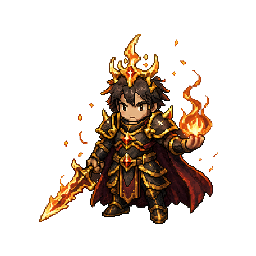
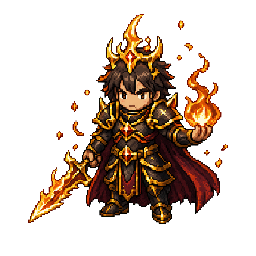
Integrate approved Dragon Arcade action frames

diff --git a/src/game/systems/AnimationSystem.ts b/src/game/systems/AnimationSystem.ts
@@ -12,6 +12,7 @@ import {
   type AuthoredFacing,
   type ChampionAnimationState
 } from '../config/ChampionAnimations';
+import { getDragonArcadeFrames, type DragonArcadeFrame } from '../config/DragonArcadeAnimations';
 
 interface MotionProfile {
   idleBob: number;
@@ -57,6 +58,8 @@ export interface ActorVisual {
   actionWasActive: boolean;
   settleUntil: number;
   actionFacing: Exclude<Direction, 'none'>;
+  arcadeFrames?: readonly DragonArcadeFrame[];
+  arcadeAnimationStartedAt: number;
 }
 
 export class AnimationSystem {
@@ -119,7 +122,8 @@ export class AnimationSystem {
       actionUntil: 0,
       actionWasActive: false,
       settleUntil: 0,
-      actionFacing: 'down'
+      actionFacing: 'down',
+      arcadeAnimationStartedAt: 0
     };
   }
 
@@ -205,6 +209,7 @@ export class AnimationSystem {
   playArcadeAction(
     actor: Player,
     visual: ActorVisual,
+    kind: 'primary' | 'secondary' | 'signature',
     facing: Exclude<Direction, 'none'>,
     color: number,
     windupMs: number,
@@ -218,6 +223,10 @@ export class AnimationSystem {
           ? { x: -1, y: 0 }
           : { x: 1, y: 0 };
     visual.actionFacing = facing;
+    visual.arcadeFrames = actor.character === 'dragon' && kind !== 'secondary'
+      ? getDragonArcadeFrames(kind, facing)
+      : undefined;
+    visual.arcadeAnimationStartedAt = this.scene.time.now;
     visual.state = 'special';
     visual.animationStartedAt = this.scene.time.now;
     visual.actionUntil = this.scene.time.now + windupMs + recoveryMs;
@@ -331,13 +340,18 @@ export class AnimationSystem {
     return `walk_${suffix}` as AnimationState;
   }
 
-  private enterState(_actor: Player, visual: ActorVisual, _state: AnimationState): void {
+  private enterState(_actor: Player, visual: ActorVisual, state: AnimationState): void {
     this.scene.tweens.killTweensOf(visual.motion);
     visual.motion.setScale(1).setAngle(0).setPosition(0, -13);
     visual.animationStartedAt = this.scene.time.now;
+    if (state !== 'special') visual.arcadeFrames = undefined;
   }
 
   private updateAnimationPose(actor: Player, visual: ActorVisual): void {
+    if (visual.arcadeFrames && this.scene.time.now < visual.actionUntil) {
+      this.updateDragonArcadePose(visual);
+      return;
+    }
     const animation = getChampionAnimation(actor.character);
     const state = this.frameState(visual.state);
     const range = animation.states[state];
@@ -362,6 +376,31 @@ export class AnimationSystem {
       .setAngle(pose.angle * mirror)
       .setScale(visual.spriteBaseScaleX, visual.spriteBaseScaleY * pose.scaleY)
       .setFlipX(facing === 'left')
+      .setAlpha(1);
+  }
+
+  private updateDragonArcadePose(visual: ActorVisual): void {
+    const frames = visual.arcadeFrames;
+    if (!frames?.length) return;
+    const elapsed = Math.max(0, this.scene.time.now - visual.arcadeAnimationStartedAt);
+    let frameIndex = frames.length - 1;
+    let boundary = 0;
+    for (let index = 0; index < frames.length; index += 1) {
+      boundary += frames[index].durationMs;
+      if (elapsed < boundary) {
+        frameIndex = index;
+        break;
+      }
+    }
+    const frame = frames[frameIndex];
+    if (visual.sprite.texture.key !== frame.textureKey) visual.sprite.setTexture(frame.textureKey);
+    visual.poseFrame = frameIndex;
+    visual.sprite
+      .setOrigin(0.5, 0.875)
+      .setPosition(0, visual.spriteBaseY)
+      .setAngle(0)
+      .setDisplaySize(128, 128)
+      .setFlipX(false)
       .setAlpha(1);
   }
 

diff --git a/src/game/config/DragonArcadeAnimations.ts b/src/game/config/DragonArcadeAnimations.ts
@@ -1,0 +1,65 @@
+import type { Direction } from '../utils/types';
+
+export type DragonArcadeActionKind = 'primary' | 'signature';
+export type DragonArcadeFacing = Exclude<Direction, 'none'>;
+
+export interface DragonArcadeFrame {
+  textureKey: string;
+  path: string;
+  phase: string;
+  durationMs: number;
+}
+
+interface FramePhase {
+  file: string;
+  phase: string;
+  durationMs: number;
+}
+
+const FACINGS: DragonArcadeFacing[] = ['down', 'right', 'up', 'left'];
+
+const CINDER_CUT: FramePhase[] = [
+  { file: '00-wind-up.png', phase: 'wind-up', durationMs: 170 },
+  { file: '01-contact.png', phase: 'contact', durationMs: 130 },
+  { file: '02-follow-through.png', phase: 'follow-through', durationMs: 150 },
+  { file: '03-recovery.png', phase: 'recovery', durationMs: 250 }
+];
+
+const DRAGON_BLAST: FramePhase[] = [
+  { file: '00-aim-wind-up.png', phase: 'aim-wind-up', durationMs: 260 },
+  { file: '01-charged-telegraph.png', phase: 'charged-telegraph', durationMs: 260 },
+  { file: '02-release.png', phase: 'release', durationMs: 120 },
+  { file: '03-travel.png', phase: 'travel', durationMs: 360 },
+  { file: '04-recoil-recovery.png', phase: 'recoil-recovery', durationMs: 320 }
+];
+
+const ACTIONS: Record<DragonArcadeActionKind, Record<DragonArcadeFacing, DragonArcadeFrame[]>> = {
+  primary: buildAction('cinder-cut', CINDER_CUT),
+  signature: buildAction('dragon-blast', DRAGON_BLAST)
+};
+
+export const DRAGON_ARCADE_FRAME_ASSETS = Object.values(ACTIONS)
+  .flatMap((directions) => Object.values(directions))
+  .flat();
+
+export function getDragonArcadeFrames(
+  kind: DragonArcadeActionKind,
+  facing: DragonArcadeFacing
+): readonly DragonArcadeFrame[] {
+  return ACTIONS[kind][facing];
+}
+
+function buildAction(
+  action: 'cinder-cut' | 'dragon-blast',
+  phases: FramePhase[]
+): Record<DragonArcadeFacing, DragonArcadeFrame[]> {
+  return Object.fromEntries(FACINGS.map((facing) => [
+    facing,
+    phases.map((phase, index) => ({
+      textureKey: `dragon-arcade-${action}-${facing}-${index}`,
+      path: `assets/arcade/actions/dragon/${action}/${facing}/${phase.file}`,
+      phase: phase.phase,
+      durationMs: phase.durationMs
+    }))
+  ])) as Record<DragonArcadeFacing, DragonArcadeFrame[]>;
+}

diff --git a/src/game/scenes/PreloadScene.ts b/src/game/scenes/PreloadScene.ts
@@ -5,6 +5,7 @@ import { CHARACTERS } from '../config/Characters';
 import { MAPS } from '../config/Maps';
 import { BOMB_VISUAL_THEMES } from '../config/BombVisualThemes';
 import { getMapTheme } from '../config/MapThemes';
+import { DRAGON_ARCADE_FRAME_ASSETS } from '../config/DragonArcadeAnimations';
 
 export class PreloadScene extends Phaser.Scene {
   constructor() {
@@ -53,6 +54,7 @@ export class PreloadScene extends Phaser.Scene {
       this.load.image(animation.directional.right.textureKey, animation.directional.right.path);
       this.load.image(animation.directional.up.textureKey, animation.directional.up.path);
     }
+    for (const frame of DRAGON_ARCADE_FRAME_ASSETS) this.load.image(frame.textureKey, frame.path);
     for (const power of POWER_UPS) {
       if (power.iconPath) this.load.image(power.assetKey, power.iconPath);
     }
@@ -102,6 +104,11 @@ export class PreloadScene extends Phaser.Scene {
         if (this.textures.exists(asset.textureKey)) {
           this.textures.get(asset.textureKey).setFilter(Phaser.Textures.FilterMode.NEAREST);
         }
+      }
+    }
+    for (const frame of DRAGON_ARCADE_FRAME_ASSETS) {
+      if (this.textures.exists(frame.textureKey)) {
+        this.textures.get(frame.textureKey).setFilter(Phaser.Textures.FilterMode.NEAREST);
       }
     }
   }

diff --git a/src/game/config/ArcadeWeapons.ts b/src/game/config/ArcadeWeapons.ts
@@ -33,9 +33,9 @@ export const ARCADE_WEAPONS: Record<CharacterClass, ArcadeWeaponDef> = {
     character: 'dragon', role: 'Lane bruiser', name: 'Crownfire Longsword', attackName: 'Cinder Cut',
     secondaryName: 'Royal Brand', signatureName: 'Dragon Blast', style: 'blade', color: 0xff6a2b,
     highlight: 0xffd56a, range: 1, secondaryRange: 2, signatureRange: 6, attackCooldownMs: 620,
-    secondaryCooldownMs: 3200, signatureCooldownMs: 10000, activeMs: 0, primaryWindupMs: 145,
-    primaryRecoveryMs: 210, secondaryWindupMs: 330, secondaryRecoveryMs: 390,
-    signatureWindupMs: 560, signatureRecoveryMs: 620
+    secondaryCooldownMs: 3200, signatureCooldownMs: 10000, activeMs: 0, primaryWindupMs: 170,
+    primaryRecoveryMs: 530, secondaryWindupMs: 330, secondaryRecoveryMs: 390,
+    signatureWindupMs: 520, signatureRecoveryMs: 800
   },
   wolf: {
     character: 'wolf', role: 'Mobile marksman', name: 'Moonsteel Bow', attackName: 'Quickfang',

diff --git a/src/game/scenes/GameScene.ts b/src/game/scenes/GameScene.ts
@@ -1132,6 +1132,7 @@ export class GameScene extends Phaser.Scene {
     if (view) this.animation.playArcadeAction(
       actor,
       view,
+      kind,
       this.arcadeFacingDirection(actor),
       weapon.color,
       windup,
